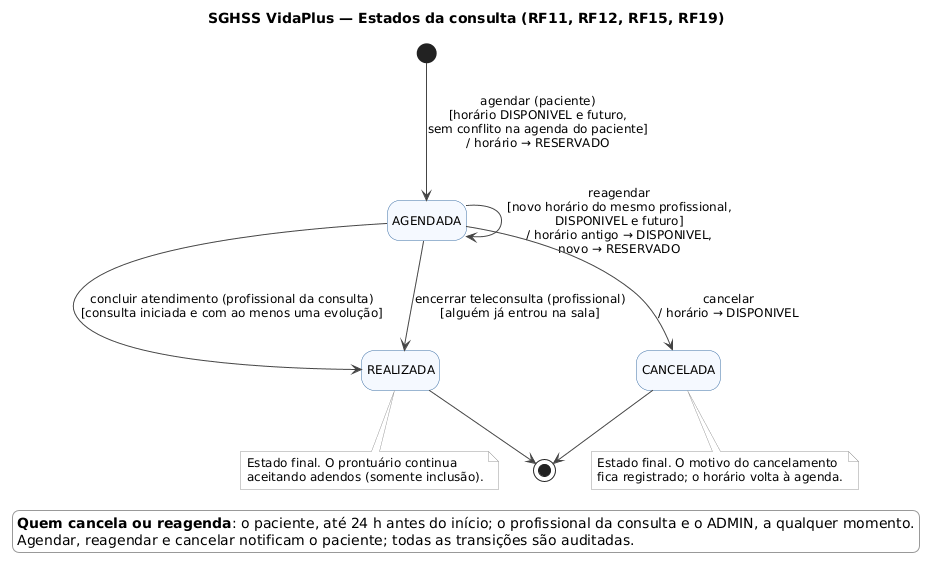
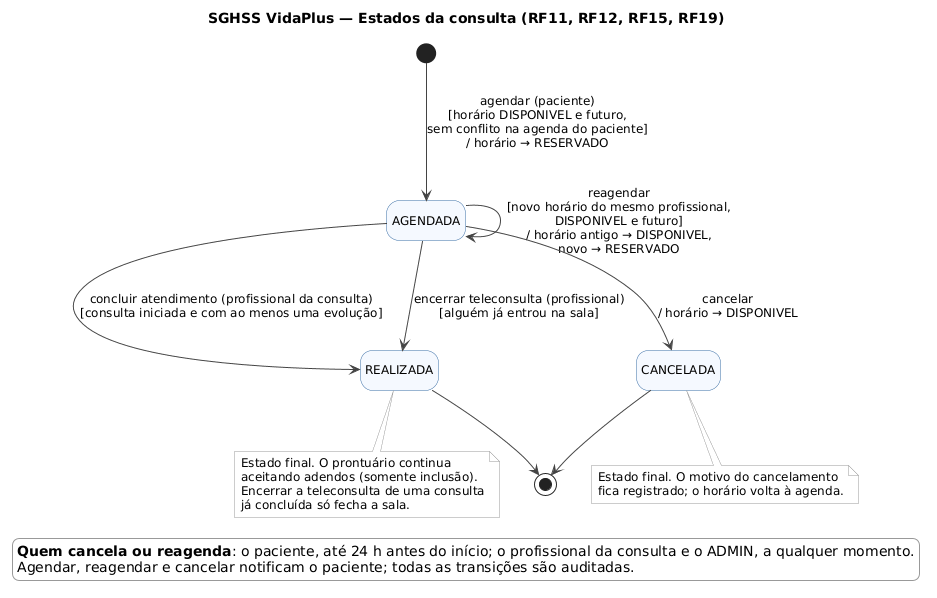
docs: ajusta diagramas e readme

diff --git a/docs/arquitetura.md b/docs/arquitetura.md
@@ -16,7 +16,7 @@ O agendamento é o fluxo mais disputado do sistema: vários pacientes podem tent
 
 ![Sequência da teleconsulta](diagramas/sequencia-teleconsulta.png)
 
-O provedor de vídeo é acessado por uma porta (`ProvedorVideo`) com um adaptador simulado, que pode ser trocado por um provedor real sem alterar as regras. O profissional cria a sala; paciente e profissional entram dentro da janela de horário (15 minutos antes do início até 30 minutos após o fim) e recebem um token temporário, que não é gravado na API. Se o provedor estiver fora do ar, a API responde 502 sem gravar nada. O encerramento fecha a sala e conclui a consulta, com atualizações condicionais que impedem dois encerramentos e não sobrescrevem um cancelamento simultâneo.
+O provedor de vídeo é acessado por uma porta (`ProvedorVideo`) com um adaptador simulado, que pode ser trocado por um provedor real sem alterar as regras. O profissional cria a sala; paciente e profissional entram dentro da janela de horário (15 minutos antes do início até 30 minutos após o fim) e recebem um token temporário, que não é gravado na API. Se o provedor estiver fora do ar, a API responde 502 sem gravar nada, tanto na criação da sala quanto no encerramento. O encerramento fecha a sala e conclui a consulta, com atualizações condicionais que impedem dois encerramentos e não sobrescrevem um cancelamento simultâneo.
 
 ## Diagrama de estados da consulta
 

diff --git a/README.md b/README.md
@@ -49,7 +49,7 @@ A API é organizada em camadas, com uma pasta por domínio em `src/api/`: as **r
 
 ## Decisões técnicas
 
-- **Concorrência tratada no banco.** Agendamento, internação, estoque e transições da consulta usam atualizações condicionais e travas de linha dentro de transações: com requisições simultâneas, só uma vence e as demais recebem 409. Há testes de concorrência para esses casos.
+- **Concorrência tratada no banco.** Agendamento, internação, estoque e transições da consulta usam atualizações condicionais e travas de linha dentro de transações: com requisições simultâneas, só uma vence e as demais recebem 409. Testes de concorrência cobrem o agendamento, a internação (inclusive alta e transferência ao mesmo tempo) e as saídas de estoque.
 - **Registros clínicos e auditoria somente de inclusão.** Prontuário, auditoria e lançamentos financeiros não têm rota de edição ou exclusão; correções geram um novo registro. `DELETE` de cadastros com histórico clínico faz inativação lógica.
 - **Ação e efeitos na mesma transação.** A auditoria e a notificação de uma operação são gravadas junto com ela: se algo falha, nada fica pela metade.
 - **Integração por porta e adaptador.** O provedor de vídeo é uma interface; o adaptador simulado pode ser trocado por um real sem mexer nas regras, e a falha do provedor vira 502 sem gravar estado parcial.

diff --git a/docs/casos-de-uso.md b/docs/casos-de-uso.md
@@ -1,6 +1,6 @@
 # Casos de uso do SGHSS — VidaPlus
 
-Os casos de uso derivam dos [requisitos](requisitos.md) e são a origem dos endpoints da API: cada caso de uso vira uma ou mais operações REST (por exemplo, "UC06 Gerenciar pacientes" → `GET/PUT/DELETE /pacientes/:id`).
+Os casos de uso derivam dos [requisitos](requisitos.md) e são a origem dos endpoints da API: cada caso de uso vira uma ou mais operações REST (por exemplo, "UC06 Gerenciar pacientes" → `GET/PUT/DELETE /pacientes/{id}`); a lista completa está em [endpoints](endpoints.md).
 
 Para manter os diagramas legíveis, eles foram separados por grupo de atores. A numeração dos casos de uso é única entre os três diagramas. Fontes PlantUML em [`diagramas/`](diagramas/); para regerar os PNGs, rode `bun run docs:diagramas`.
 
